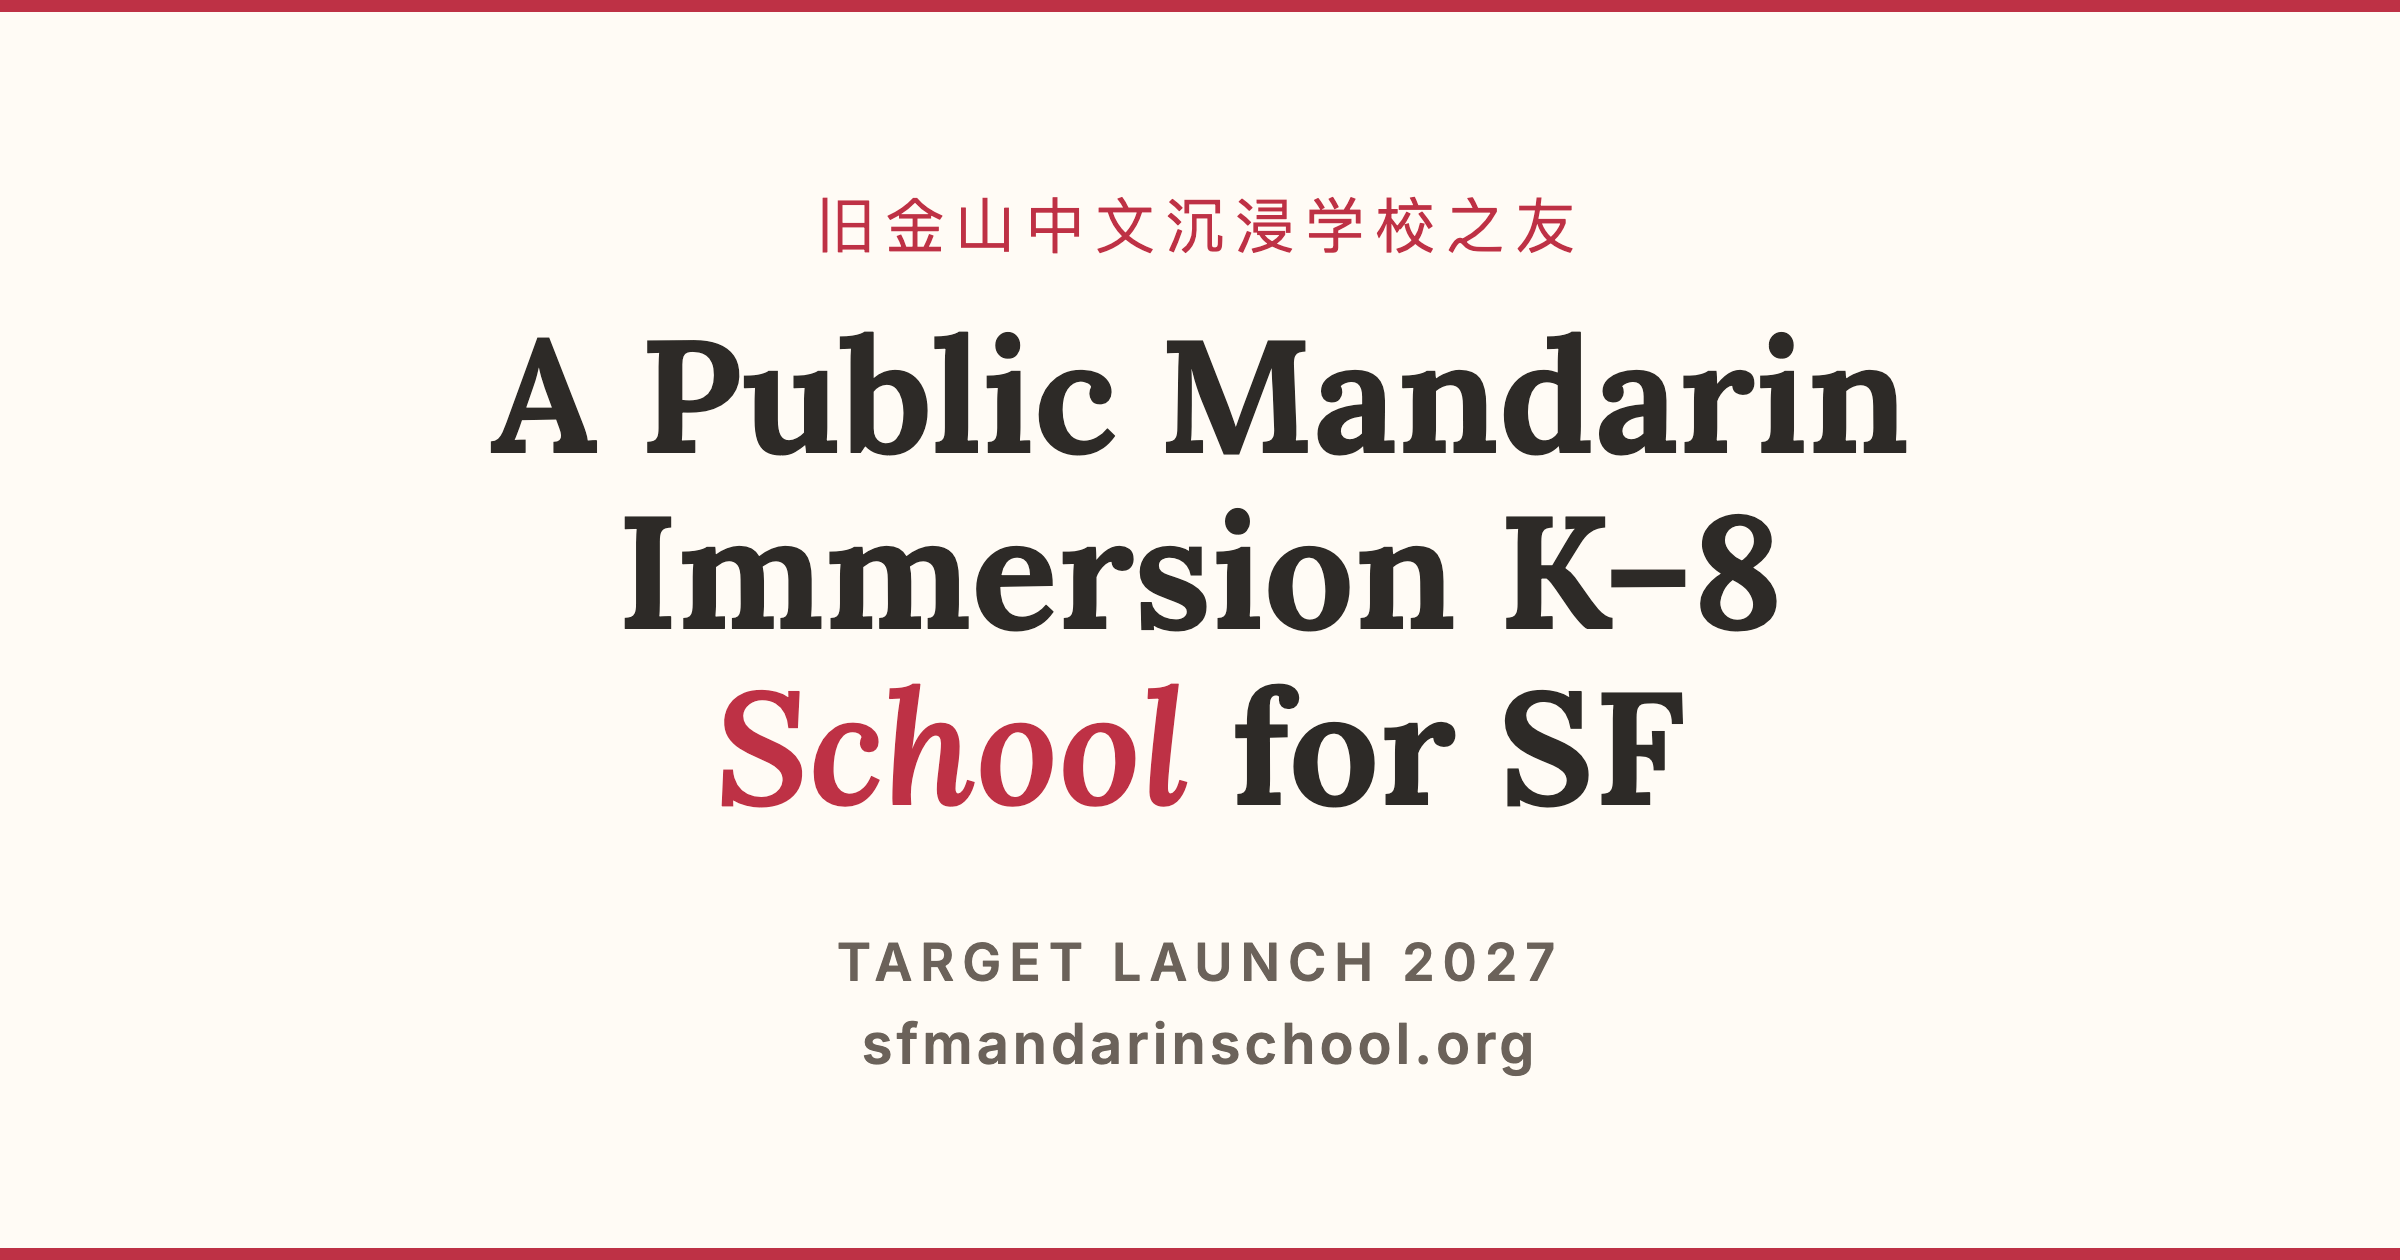
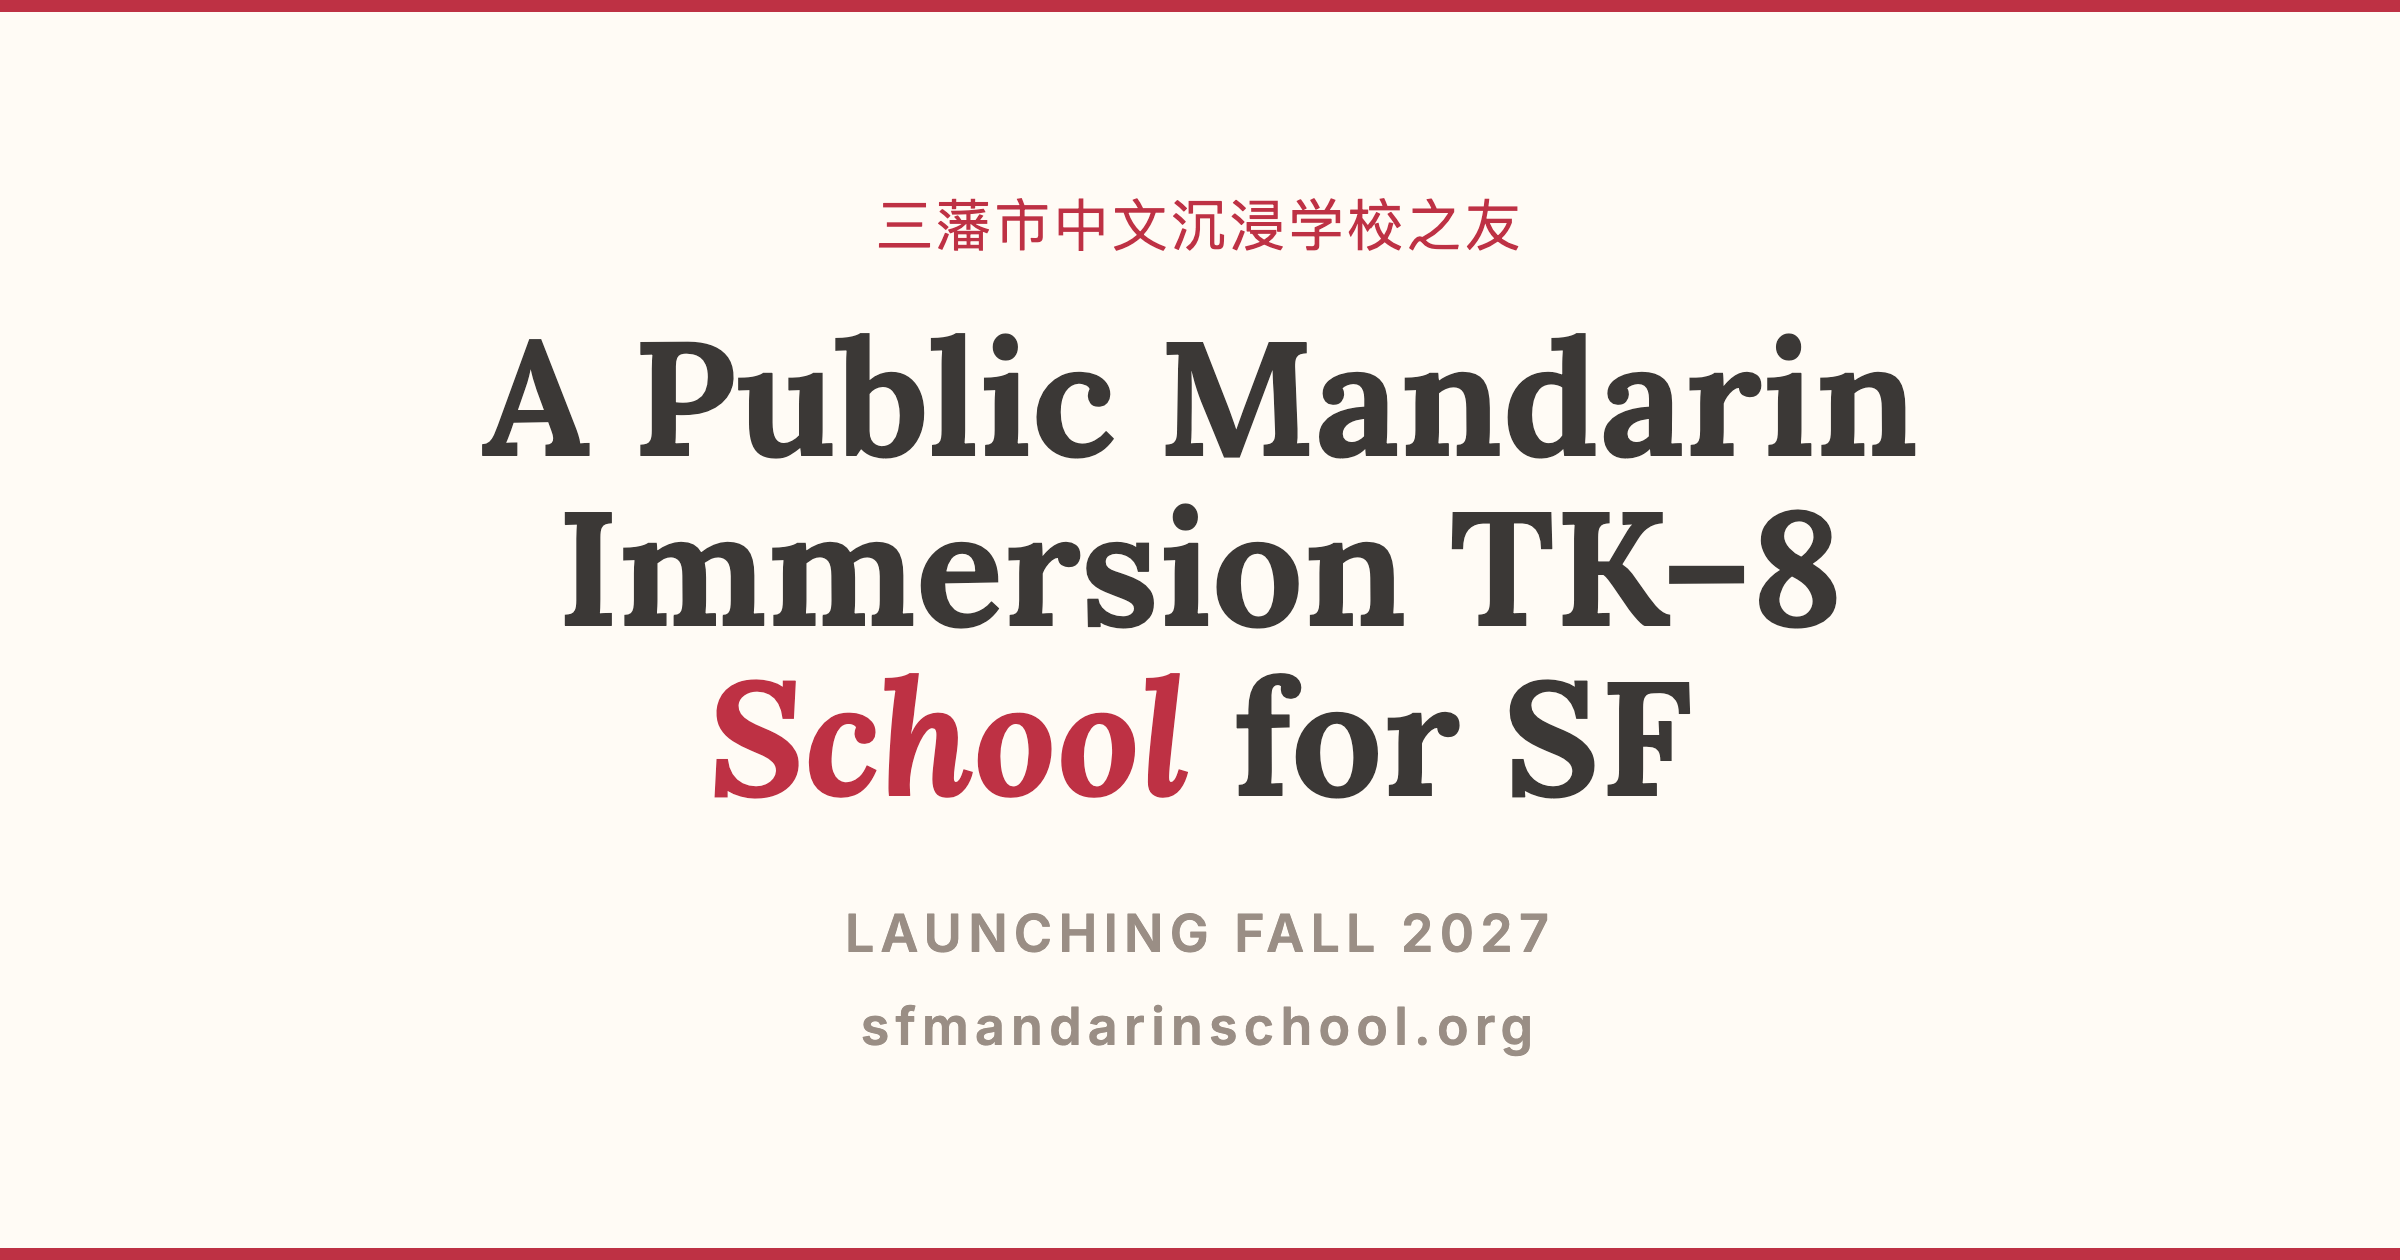
OG images: TK-8, 三藩市 name, 'launching fall 2027'; add Simplified Chinese OG; rename zh to zh-hant

diff --git a/survey-zh-hans.html b/survey-zh-hans.html
@@ -14,13 +14,13 @@
   <link rel="alternate" hreflang="en" href="https://www.sfmandarinschool.org/permanent-location-survey.html">
   <link rel="alternate" hreflang="zh-Hans" href="https://www.sfmandarinschool.org/survey-zh-hans.html">
   <link rel="alternate" hreflang="zh-Hant" href="https://www.sfmandarinschool.org/survey-zh-hant.html">
-  <meta property="og:image" content="https://www.sfmandarinschool.org/images/og-image.png">
+  <meta property="og:image" content="https://www.sfmandarinschool.org/images/og-image-zh-hans.png">
   <meta property="og:image:width" content="1200">
   <meta property="og:image:height" content="630">
   <meta name="twitter:card" content="summary_large_image">
   <meta name="twitter:title" content="您会在哪里报名？— 永久校址问卷">
   <meta name="twitter:description" content="帮助 SFUSD 为三藩市新的中文沉浸 TK-8 学校选定永久校址。只需 3 分钟。">
-  <meta name="twitter:image" content="https://www.sfmandarinschool.org/images/og-image.png">
+  <meta name="twitter:image" content="https://www.sfmandarinschool.org/images/og-image-zh-hans.png">
   <link rel="icon" type="image/x-icon" href="/images/favicon.ico">
   <link rel="icon" type="image/png" sizes="32x32" href="/images/favicon-32x32.png">
   <link rel="icon" type="image/png" sizes="16x16" href="/images/favicon-16x16.png">

diff --git a/survey-zh-hant.html b/survey-zh-hant.html
@@ -14,13 +14,13 @@
   <link rel="alternate" hreflang="en" href="https://www.sfmandarinschool.org/permanent-location-survey.html">
   <link rel="alternate" hreflang="zh-Hans" href="https://www.sfmandarinschool.org/survey-zh-hans.html">
   <link rel="alternate" hreflang="zh-Hant" href="https://www.sfmandarinschool.org/survey-zh-hant.html">
-  <meta property="og:image" content="https://www.sfmandarinschool.org/images/og-image.png">
+  <meta property="og:image" content="https://www.sfmandarinschool.org/images/og-image-zh-hant.png">
   <meta property="og:image:width" content="1200">
   <meta property="og:image:height" content="630">
   <meta name="twitter:card" content="summary_large_image">
   <meta name="twitter:title" content="您會在哪裡報名？— 永久校址問卷">
   <meta name="twitter:description" content="幫助 SFUSD 為三藩市新的中文沉浸 TK-8 學校選定永久校址。只需 3 分鐘。">
-  <meta name="twitter:image" content="https://www.sfmandarinschool.org/images/og-image.png">
+  <meta name="twitter:image" content="https://www.sfmandarinschool.org/images/og-image-zh-hant.png">
   <link rel="icon" type="image/x-icon" href="/images/favicon.ico">
   <link rel="icon" type="image/png" sizes="32x32" href="/images/favicon-32x32.png">
   <link rel="icon" type="image/png" sizes="16x16" href="/images/favicon-16x16.png">

diff --git a/townhall.html b/townhall.html
@@ -9,13 +9,13 @@
   <meta property="og:description" content="5月13日（星期三）下午6:30 · Ulloa Elementary，舊金山。亦提供 Zoom 線上參與。">
   <meta property="og:type" content="website">
   <meta property="og:url" content="https://www.sfmandarinschool.org/townhall.html">
-  <meta property="og:image" content="https://www.sfmandarinschool.org/images/og-image-zh.png">
+  <meta property="og:image" content="https://www.sfmandarinschool.org/images/og-image-zh-hant.png">
   <meta property="og:image:width" content="1200">
   <meta property="og:image:height" content="630">
   <meta name="twitter:card" content="summary_large_image">
   <meta name="twitter:title" content="社區座談會｜舊金山聯合學區 TK–8 普通話沉浸課程">
   <meta name="twitter:description" content="5月13日（星期三）下午6:30 · Ulloa Elementary，舊金山。亦提供 Zoom 線上參與。">
-  <meta name="twitter:image" content="https://www.sfmandarinschool.org/images/og-image-zh.png">
+  <meta name="twitter:image" content="https://www.sfmandarinschool.org/images/og-image-zh-hant.png">
   <link rel="icon" type="image/x-icon" href="/images/favicon.ico">
   <link rel="icon" type="image/png" sizes="32x32" href="/images/favicon-32x32.png">
   <link rel="icon" type="image/png" sizes="16x16" href="/images/favicon-16x16.png">
